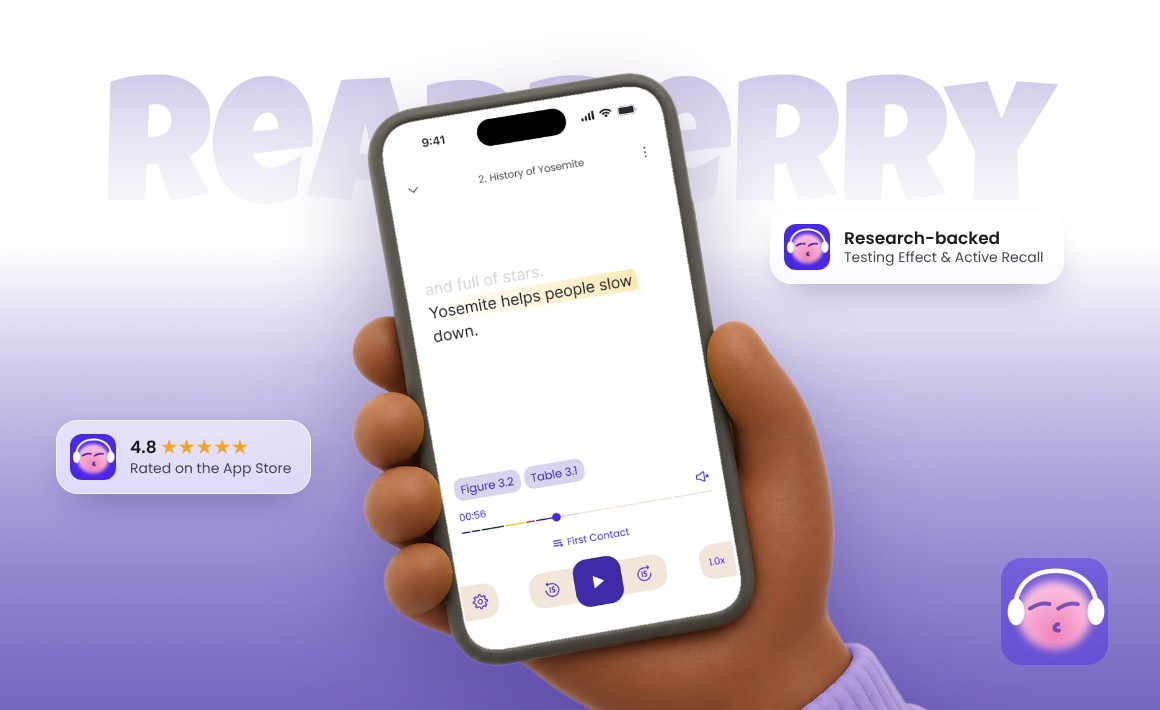
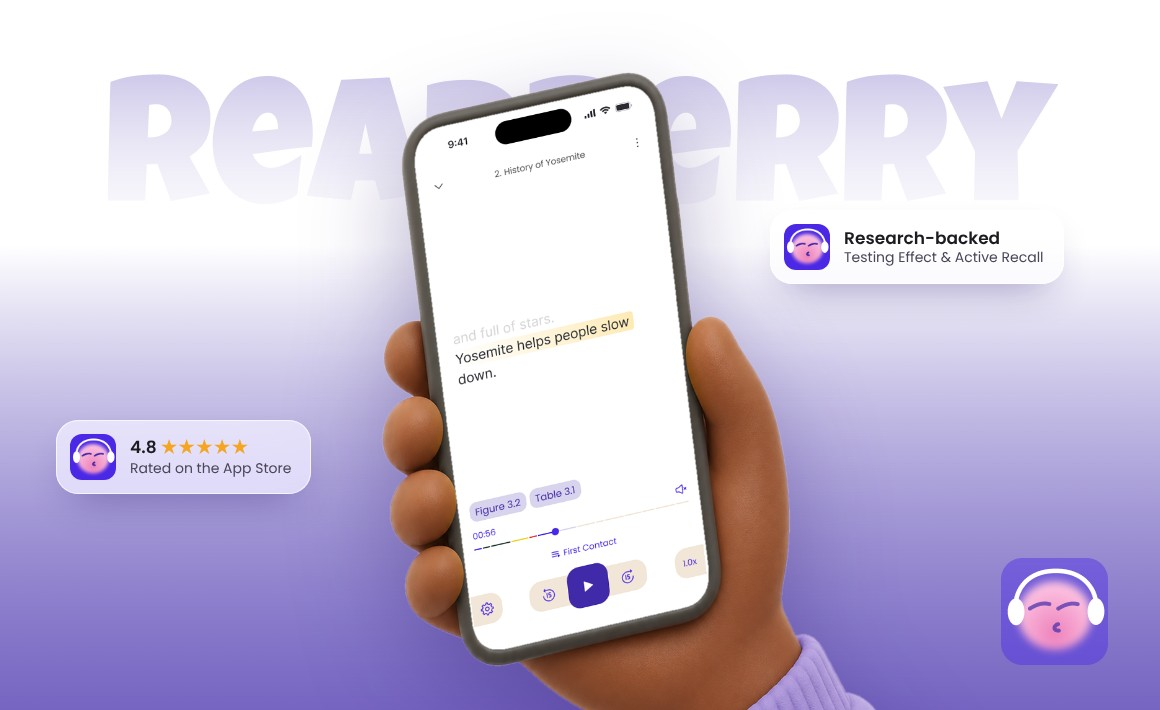
Readberry cover: iPhone proportions, full screenshot without cropping
Claude-Session: https://claude.ai/code/session_01KrCcaaPpT7xGfxyrtmaZ9B

diff --git a/index.html b/index.html
@@ -800,7 +800,7 @@ img[src$="rocken-logo.svg"],img[src$="asalart-logo.png"],img[src$="rocken-wordma
     <p class="project__domain">Audio reader with quizzes for people who have a lot to read</p>
     <div class="project__foot"><p class="project__role">Founder, product designer</p><p class="project__sub">2026 &#183; iOS</p></div>
   </div>
-  <div class="project__img"><img src="assets/cover-readberry.jpg?v=4" width="580" height="355" alt="Readberry — iOS audio reader with quizzes, product design case" loading="lazy"><span class="project__glass" aria-hidden="true"><span class="project__cta">View case<svg viewBox="0 0 16 16" width="14" height="14" fill="none"><path d="M3 8h10M9 4l4 4-4 4" stroke="currentColor" stroke-width="1.5" stroke-linecap="round" stroke-linejoin="round"/></svg></span></span></div>
+  <div class="project__img"><img src="assets/cover-readberry.jpg?v=5" width="580" height="355" alt="Readberry — iOS audio reader with quizzes, product design case" loading="lazy"><span class="project__glass" aria-hidden="true"><span class="project__cta">View case<svg viewBox="0 0 16 16" width="14" height="14" fill="none"><path d="M3 8h10M9 4l4 4-4 4" stroke="currentColor" stroke-width="1.5" stroke-linecap="round" stroke-linejoin="round"/></svg></span></span></div>
   <a class="project__link" href="#readberry" aria-label="Readberry — iOS audio reader with quizzes, product design case"></a>
 </article>
 <article class="project">
